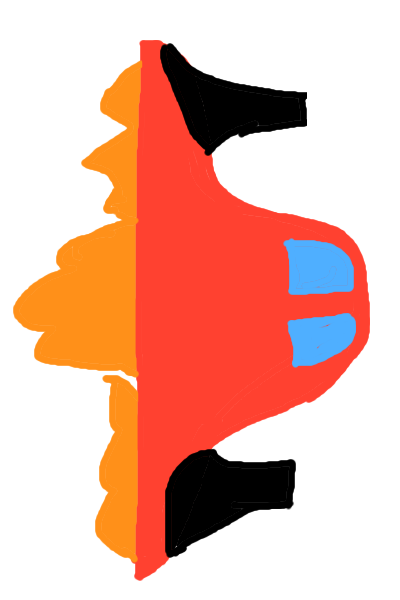
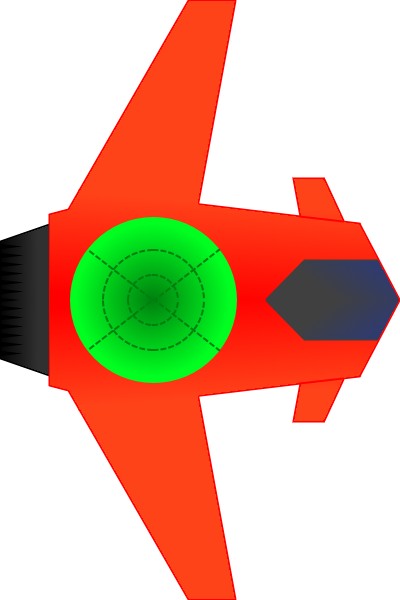
New player ship texture + weapon type

diff --git a/src/Player.java b/src/Player.java
@@ -3,6 +3,7 @@ import java.awt.event.KeyEvent;
 import java.awt.image.*;
 import javax.imageio.*;
 import java.io.*;
+import java.util.LinkedList;
 import java.util.Map;
 import java.util.Vector;
 
@@ -16,13 +17,13 @@ public class Player
 	private CircleHitbox hitbox;
 	private PlayerWeapon weapon;
 	private Image texture;
-	private Vector<PlayerBullet> bullets;
+	private LinkedList<PlayerBullet> bullets;
 	
 	Player(Rect2D rect,int windowWidth,int windowHeight) 
 	{
 		this.panelWidth = windowWidth;
 		this.panelHeight = windowHeight;
-		this.bullets = new Vector<PlayerBullet>();
+		this.bullets = new LinkedList<PlayerBullet>();
 		
 		this.rect = rect;
 		
@@ -38,9 +39,9 @@ public class Player
 		final float rWidth = this.rect.getWidth();
 		final float rHeight = this.rect.getHeight();
 		
-		this.hitboxLocation = new Vec2D(rWidth/2,rHeight/2);
+		this.hitboxLocation = new Vec2D(rWidth/2 - 12,rHeight/2);
 		
-		this.hitbox = new CircleHitbox(rX + this.hitboxLocation.getX(),rY + this.hitboxLocation.getY(),10.f);
+		this.hitbox = new CircleHitbox(rX + this.hitboxLocation.getX(),rY + this.hitboxLocation.getY(),18.f);
 		
 		try
 		{

diff --git a/src/WeaponType.java b/src/WeaponType.java
@@ -1,0 +1,36 @@
+import java.awt.*;
+import java.io.IOException;
+
+public class WeaponType
+{
+	private Rect2D bullet;
+	private Vec2D speed;
+	private float shootCooldown;
+	private int damage; // moc vsakega metka
+	private Image texture;
+	// velikost tabele pove koliko metkov nastane of enem strelu
+	// vsake lokacija, pa pove kje se metek ob strelu pojavi glede na pozicijo ladje
+	private Vec2D[] relativeSpawnLocations; 
+	
+	WeaponType(Rect2D bullet,Vec2D speed,int damage,float shootCooldown,String pathToFile/* texture file*/,Vec2D[] relativeSpawnLocations)
+	{
+		this.bullet = bullet;
+		this.speed = speed;
+		this.damage = damage;
+		this.shootCooldown = shootCooldown;
+		
+		try
+		{			
+			this.texture = Loader.loadImage(pathToFile,(int)this.bullet.getWidth(),(int)this.bullet.getHeight());
+		}
+		catch(IOException e)
+		{
+			e.printStackTrace();
+		}
+		
+		this.relativeSpawnLocations = relativeSpawnLocations;
+	}
+	
+	
+	
+}

diff --git a/src/PlayerWeapon.java b/src/PlayerWeapon.java
@@ -1,5 +1,6 @@
 import java.awt.Image;
 import java.io.IOException;
+import java.util.LinkedList;
 import java.util.Vector;
 
 public class PlayerWeapon
@@ -36,7 +37,7 @@ public class PlayerWeapon
 		timer += deltaTime;
 	}
 	
-	public void tryToShoot(Rect2D shipPosition,Vector<PlayerBullet> bullets) // funkcija modificira spremenljivko bullets
+	public void tryToShoot(Rect2D shipPosition,LinkedList<PlayerBullet> bullets) // funkcija modificira spremenljivko bullets
 	{
 		if(this.timer - this.lastShotAt > shootCooldown)
 		{

diff --git a/src/CircleHitbox.java b/src/CircleHitbox.java
@@ -45,7 +45,7 @@ public class CircleHitbox
 		final float radius = this.hitbox.getRadius();
 		final float radiusX2 = 2*radius;
 		
-		g.setColor(Color.GREEN);
+		g.setColor(Color.BLUE);
 		g.setStroke(new BasicStroke(1.f));
 		g.drawOval((int)(origin.getX() - radius),(int)(origin.getY() - radius),(int)radiusX2,(int)radiusX2);
 	}
